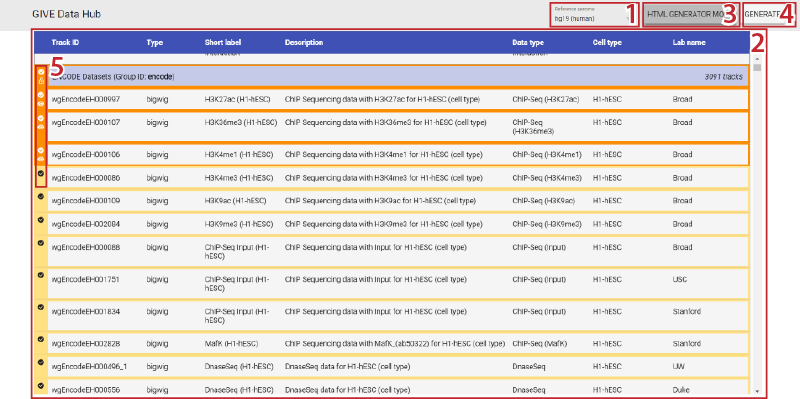
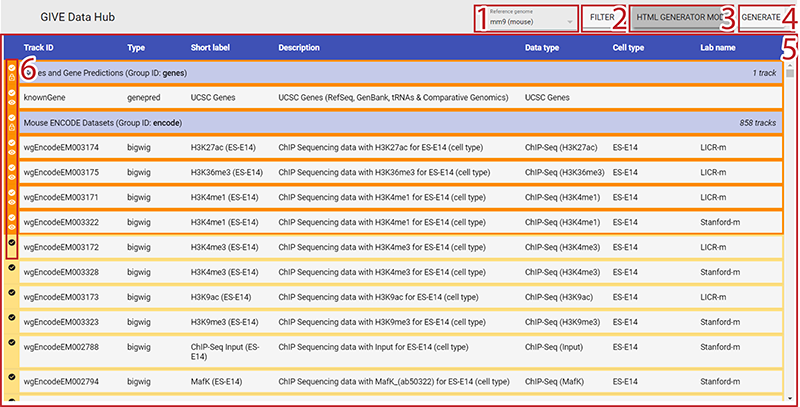
Filter and search doc update (#69)
* Updated docs in manual

diff --git a/manuals/2.1-GIVE-Hub.md b/manuals/2.1-GIVE-Hub.md
@@ -13,6 +13,7 @@ GIVE has a dedicated page named GIVE Data Hub to facilitate selection of track g
 
 *   [Prerequisites](#prerequisites)
 *   [Components on the GIVE Data Hub page](#components-on-the-give-hub-page)
+*   [Filtering Tracks](#filtering-tracks)
 *   [Icons in HTML Generator Mode](#icons-in-html-generator-mode)
 *   [GIVE-HUG (HTML Universal Generator)](#give-hug-html-universal-generator)
 
@@ -33,10 +34,21 @@ GIVE Data Hub page shows all the supported reference(s) on the instance and trac
 | # | Description |
 | --- | --- |
 | 1 | The drop-down list, used to select your reference from references on the GIVE instance. After selection, the list of tracks/groups will refresh automatically. |
-| 2 | List of all tracks and track groups in the reference. |
-| 3 | Button to toggle HTML Generator Mode. Button will turn dark when the mode is active. |
+| 2 | Button to apply filter on the tracks. It will turn dark when filter window is open. |
+| 3 | Button to toggle HTML Generator Mode. It will turn dark when the mode is active. |
 | 4 | Button to invoke [GIVE HTML Universal Generator](#give-hug-html-universal-generator). This button is shown when HTML Generator Mode is active and is enabled only when at least one track/group is selected. |
-| 5 | Icons indicating the current status of the track group / track. They will only be shown when HTML Generator Mode is active. |
+| 5 | List of all tracks and track groups (when filter is not active) in the reference. |
+| 6 | Icons indicating the current status of the track group / track. They will only be shown when HTML Generator Mode is active. |
+
+## Filtering Tracks
+
+You may filter all the tracks supported for the current reference via the FILTER button. After you click the button, the filter window will appear. You may choose the field and value for the criterion that tracks must match. Currently, the data type (ChIP-Seq, RNA-Seq, *etc.*), the cell line or tissue name, and the lab name of the tracks are supported.
+
+![GIVE Data Hub filter](images/2-1-Give-Hub-filter.png)
+
+Once a filter is active, the FILTER button will show the criterion of the current filter and you may use the <img src="images/2-1-icon-clear.svg" height="16" width="16"> button to clear it, or click the FILTER button again to change the criterion.
+
+Applying a filter __will not affect__ any of your previous track selections. Therefore, you may use the filter function multiple times to select a combination of tracks matching different criteria.
 
 ## Icons in HTML Generator Mode
 
